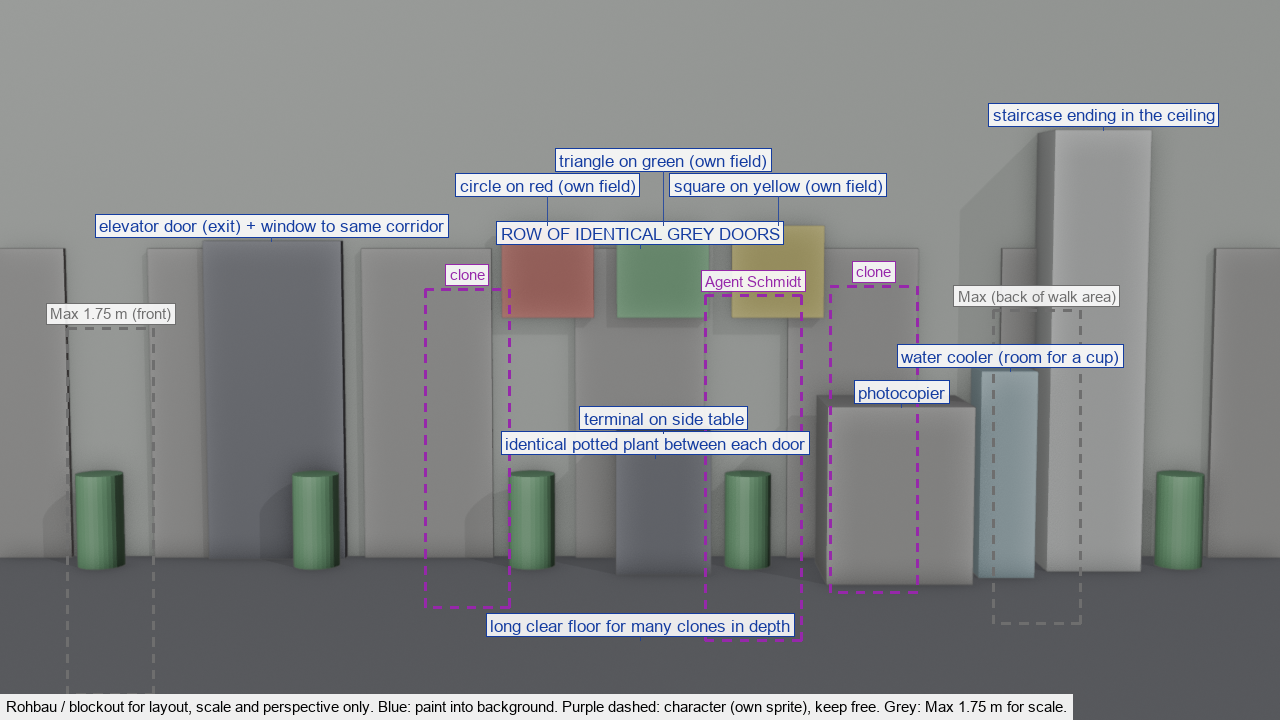
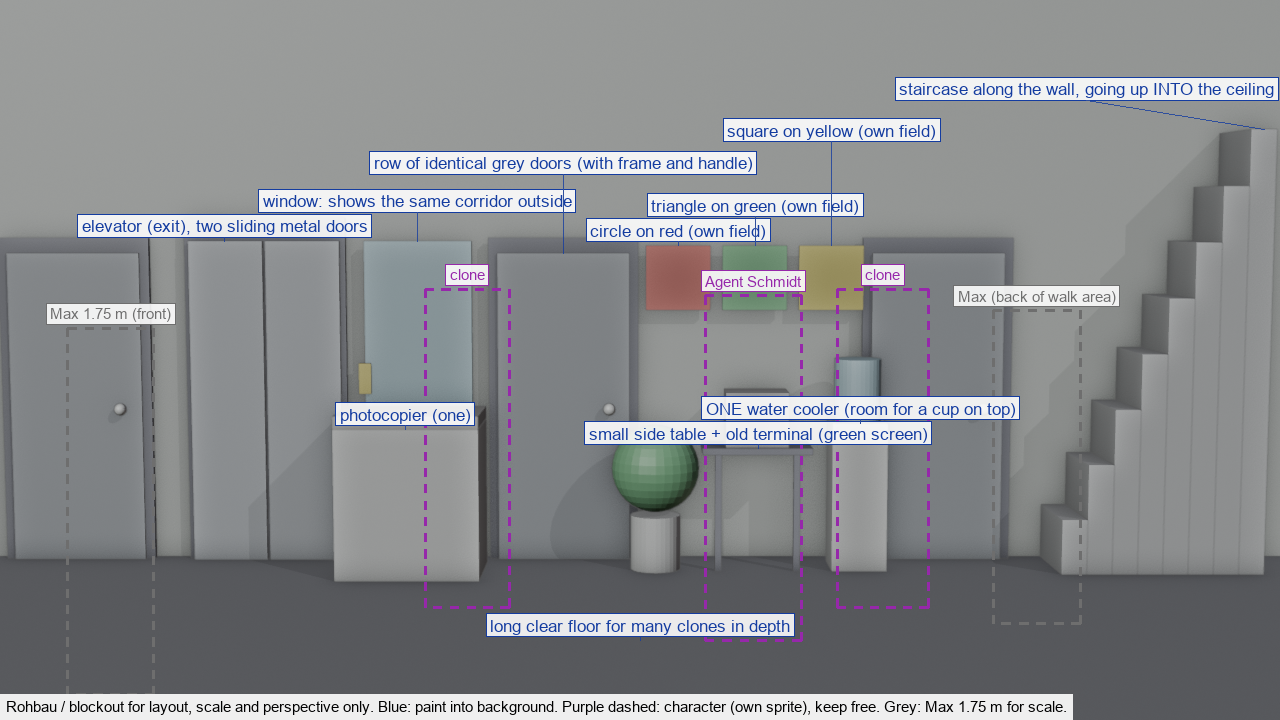
Welt 3: Büro 50 – Rohbau mit klaren Türen, einem Wasserspender, Treppe an der Wand; Prompt angepasst

Changed region(s): [[0.0, 0.0917, 1.0, 0.825]]

diff --git a/tools/grafik_w3/rohbau_raeume.py b/tools/grafik_w3/rohbau_raeume.py
@@ -309,24 +309,48 @@ def kueche():
 
 @raum("buero_50", 640)
 def buero():
-    innenraum(tiefe=3.5, hoehe=2.8, wand=(0.85, 0.88, 0.82, 1))
-    for i in range(7):
-        x = -1.2 + i * 1.4
-        box("ROW OF IDENTICAL GREY DOORS" if i == 3 else None, x, 3.45, 0.85, 0.05, 2.05, col=MITTEL)
-        if i < 6:
-            zyl(None, x + 0.7, 3.2, 0.15, 0.6, col=GRUEN)
-    notiz("identical potted plant between each door", 3.1, 3.2, 0.7)
-    box("elevator door (exit) + window to same corridor", 0.6, 3.4, 0.9, 0.1, 2.1, col=DUNKEL)
-    for i, (c, s) in enumerate([(ROT, "circle"), (GRUEN, "triangle"), (GELB, "square")]):
-        box(f"{s} on {['red', 'green', 'yellow'][i]} (own field)", 2.4 + i * 0.75, 3.38, 0.6, 0.05, 0.6, z=1.6, col=c)
-    box("terminal on side table", 3.15, 2.9, 0.6, 0.4, 0.9, col=DUNKEL)
-    box("photocopier", 4.6, 2.6, 0.9, 0.7, 1.1, col=MITTEL)
-    box("water cooler (room for a cup)", 5.3, 2.8, 0.35, 0.35, 1.3, col=GLAS)
-    box("staircase ending in the ceiling", 5.9, 3.0, 0.6, 1.0, 2.8, col=HELL, rot=0)
+    innenraum(tiefe=3.5, hoehe=2.8, wand=(0.88, 0.90, 0.86, 1))
+    TUER = (0.55, 0.57, 0.60, 1)
+
+    def tuer(x, label=None):
+        box(None, x, 3.42, 0.98, 0.04, 2.12, col=DUNKEL)                        # Zarge
+        box(label, x, 3.40, 0.86, 0.04, 2.02, col=TUER)
+        kugel(None, x + 0.3, 3.36, 0.04, 1.0, col=HELL)
+
+    def pflanze(x, label=None):
+        zyl(label, x, 3.1, 0.16, 0.35, col=HELL)
+        kugel(None, x, 3.1, 0.28, 0.65, col=GRUEN)
+
+    # links: Aufzug und Fenster
+    box(None, 0.55, 3.42, 1.05, 0.04, 2.25, col=DUNKEL)
+    box("elevator (exit), two sliding metal doors", 0.3, 3.38, 0.48, 0.04, 2.1, col=(0.70, 0.72, 0.75, 1))
+    box(None, 0.8, 3.38, 0.48, 0.04, 2.1, col=(0.70, 0.72, 0.75, 1))
+    box(None, 1.2, 3.38, 0.08, 0.04, 0.2, z=1.1, col=GELB)
+    box("window: shows the same corridor outside", 1.55, 3.40, 0.7, 0.04, 1.3, z=0.8, col=GLAS)
+    # Rückwand: Reihe gleicher Türen, je eine Pflanze dazwischen
+    tuer(-0.7)
+    tuer(2.5, "row of identical grey doors (with frame and handle)")
+    pflanze(3.1)
+    tuer(4.95)
+    # Farbcode über dem Terminal, drei getrennte Felder mit Symbol
+    for i, (c, n) in enumerate([(ROT, "circle on red"), (GRUEN, "triangle on green"), (GELB, "square on yellow")]):
+        box(f"{n} (own field)", 3.25 + i * 0.5, 3.40, 0.42, 0.03, 0.42, z=1.65, col=c)
+    for x in (3.5, 4.0):
+        box(None, x, 3.0, 0.04, 0.04, 0.75, col=DUNKEL)
+    box("small side table + old terminal (green screen)", 3.75, 3.0, 0.7, 0.4, 0.04, z=0.75, col=DUNKEL)
+    box(None, 3.75, 3.05, 0.4, 0.3, 0.35, z=0.79, col=MITTEL)
+    # rechts: Kopierer, ein Wasserspender, Treppe in die Decke
+    box("photocopier (one)", 1.55, 2.7, 0.9, 0.6, 0.95, col=HELL)
+    box(None, 1.55, 2.7, 0.9, 0.6, 0.08, z=0.95, col=MITTEL)
+    box("ONE water cooler (room for a cup on top)", 4.4, 3.0, 0.35, 0.35, 0.95, col=HELL)
+    zyl(None, 4.4, 3.17, 0.15, 0.4, z=0.95, col=GLAS)
+    for i in range(8):
+        box("staircase along the wall, going up INTO the ceiling" if i == 7 else None,
+            5.75 + i * 0.16, 2.9, 0.16, 1.0, 0.35 * (i + 1), col=(0.80, 0.80, 0.80, 1))
     notiz("long clear floor for many clones in depth", 3.0, 1.0, 0.05)
     figur("Agent Schmidt", 3.6, 1.2, 1.85)
     figur("clone", 2.0, 2.0, 1.85)
-    figur("clone", 4.4, 2.4, 1.85)
+    figur("clone", 4.4, 2.0, 1.85)
     max_massstab()
 
 

diff --git a/docs/grafik/welt-3.md b/docs/grafik/welt-3.md
@@ -77,7 +77,7 @@ Standardweg: Konzeptbild mit dem Baustein KONZEPT in Gemini, danach `tools/pixel
 | Laboreingang | Realität innen | Tür zu und offen | Panzertür, Kartenleser, Pinnwand, Wischeimer, Warnstreifen, Deckenlampe, Gang zur Straße | Underground concrete passage below the city, front view with gentle depth. Center: a heavy round steel blast door set into the back wall, closed. Right of the door: a wall-mounted card reader with a small red light. Left: a mop bucket full of clean water and a corkboard covered in pinned charts and blank result sheets; exit back up to the street at the left edge. Yellow-black warning stripes along the back of the floor, the front kept clear and wet. A single ceiling lamp, water dripping beside it. Second version, same framing: the blast door rolled aside, revealing a small room with a wall of glowing cyan data ports and one thick cable plugged in |
 | Stadtstraße | Simulation | Tag und Nacht (Strom der Kapsel aus). 1280×360 als ein Panorama in einem Bild (Seitenverhältnis 32:9) | Nachttisch mit Radiowecker (Anzeige 5:59; klingelnd 6:00), Gehweg für die Katze, Glastür des Büroturms, Haus der Orakel-Oma mit Spitzengardinen, gleiche Bäume und Häuser, freie Fahrbahn für die Autos im Takt (Effekt, keine gemalten Autos), Nachttisch als eigenes Vordergrundteil, Omas Haustür in Max-Größe, Sonne, Wolke dreimal | ONE single continuous panoramic image, extra wide 32:9 (1280x360), seen through one fixed camera from the front with gentle depth: a single uninterrupted city street that runs from the left edge to the right edge without any seam, split, border, divider or second panel. The horizon line, the sidewalk, the curb and the road stay at exactly the same height across the whole width. A suspiciously perfect city street on a sunny day. From left to right: at the far left, close to the viewer at the front edge of the sidewalk, a small wooden bedside table standing alone with a 1980s clock radio on it, red digits on its display; behind it a narrow, too-clean alley entrance. Behind the front sidewalk a clean empty asphalt road runs across the whole width, no cars on it and no cars parked anywhere. Across the road a second narrow sidewalk, then identical round trees and identical street lamps in a perfect evenly spaced row, then identical white houses with small front lawns; one house near the middle has lace curtains, a large front door and a small blank sign beside it, its door clearly big enough for an adult. At the far right, on the near side of the road, the ground floor of a tall glass office tower that is cut off by the top edge, with a closed glass entrance door and a small grey intercom plate beside it. One long clean sidewalk across the whole lower part of the image, no cracks, no gum, wide enough to walk on. Perfect blue sky with a small round sun and the same small cloud appearing exactly three times at even distances. Second version: the same street at night, dark blue sky, street lamps on, windows dark |
 | Küche der Orakel-Oma | Simulation innen | Sparschwein auf dem Regal; Sparschwein weg, Scherben am Boden | Ofen, Sparschwein auf dem Regal, Kochbuch, Radio, Gläser, Eieruhr, Kuckucksuhr, Gabel, Teller und Teekanne, Kehrblech mit Besen, Haustür | A homely retro kitchen seen from a few steps back, front view with gentle depth, furniture in normal adult size. Left: an old cream enamel oven with a window, a tray of round golden cookies inside, warm glow; a dustpan and broom leaning beside it, the broom turned toward the room. Center: a wooden kitchen table at the hip height of an adult, a chair beside it, on the table an empty plate, a teapot, a single straight silver fork and a thick open appliance manual showing a drawing of a stand mixer. Right: a high wall shelf with a blue ceramic piggy bank, a small radio and three jars with blank labels; below it a small side shelf with a wind-up kitchen timer shaped like a white hen, next to the front door at the right edge. Back wall: floral wallpaper, a window with lace curtains, a cuckoo clock. Warm light. Second version, same framing: the shelf without the piggy bank, blue shards on the floor below it |
-| Büroturm, 50. Stock | Simulation innen | – | Farbcode an der Wand, Terminal, Fenster, gleiche Türen, Bürokopierer, Wasserspender mit Platz für die Kaffeetasse (Sprite aus dem Gegenstands-Sammelbild, dort legt Schmidt auch die Sonnenbrille ab), Treppe in die Decke, Aufzugstür | An endless office corridor on the 50th floor, front view with gentle depth, the back wall lined with a long row of at least six identical grey doors, one identical potted plant between each two doors, the corridor continuing into the distance. Left: a closed elevator door and a window that shows only more of the same corridor outside. Center: three separate square colour fields side by side on the wall at eye height, each with exactly one large black symbol inside it: a circle on the red field, a triangle on the green field, a square on the yellow field; below them a small old computer terminal with a green screen on a side table. Right: a large grey office photocopier with an open output tray, a water cooler with a big bubble bottle and a staircase that ends in the ceiling. Floor clear and long for a crowd of clones. Cold flat fluorescent light |
+| Büroturm, 50. Stock | Simulation innen | – | Farbcode an der Wand, Terminal, Fenster, gleiche Türen, Bürokopierer, Wasserspender mit Platz für die Kaffeetasse (Sprite aus dem Gegenstands-Sammelbild, dort legt Schmidt auch die Sonnenbrille ab), Treppe in die Decke, Aufzugstür | An endless office corridor on the 50th floor, front view with gentle depth, plain pale walls. Along the back wall from left to right: one closed grey office door with frame and handle; a metal elevator with two sliding doors and a small call button (the exit); a window showing only more of the same corridor outside, with one grey office photocopier standing in front of it; a second identical grey door; one potted plant; in the center three separate square colour fields side by side at eye height, each with exactly one large black symbol inside it: a circle on the red field, a triangle on the green field, a square on the yellow field, below them a small side table with an old computer terminal with a green screen; next to it ONE single water cooler with a big bubble bottle (only one); a third identical grey door; at the right edge a plain staircase running up along the wall and ending in the ceiling. All doors look exactly the same. No other doors, no columns, no second water cooler. Floor clear and long for a crowd of clones. Cold flat fluorescent light |
 | Testkammer 1 | Labor | Ausgangstür zu und offen (das Portalgerät hängt als eigenes Sprite aus dem Labor-Sammelbild in der Halterung) | Bodenschalter, Ausgangstür, Portalgerät-Halterung, Lautsprecher, Pappkuchen | A bright white test chamber built from identical square wall panels, front view with gentle depth. Left: the entrance and an empty white wall mount for a handheld device. Center: a large round red floor button set flush into the floor. Right: a closed sliding exit door. A small round speaker in the ceiling. Right corner: a cardboard cake with a painted candle. Second version, same framing: the exit door slid open |
 | Testkammer 2 | Labor | Laser tödlich (rot) und harmlos (blassrosa); das Gummihuhn steht als eigenes Sprite aus dem Labor-Sammelbild auf dem Sockel | Lasersperre, Gummihuhn-Sockel, Kritzelei mit Regel 3, Ausgangstür | The same white test chamber, same framing and panels. Right: the closed exit door, and directly in front of it two short emitter posts with three horizontal red laser beams between them, blocking the door. Left: a small empty white pedestal. Center, low on one wall panel near the floor: hasty black marker scribbles, unreadable, with one small neat block of print beside them. A large round loudspeaker on the wall. Second version: the laser beam pale pink and wobbly |
 | Testkammer 3 | Labor | Tür zu und offen | Verschlossene Tür mit Spalt für Bernd, Lautsprecher, Platz für das Huhn | The same white test chamber, same framing. Right: a large exit door with a big padlock symbol; directly in front of the door, touching it, a narrow slot in the floor exactly one small cube wide, so a cube standing in it blocks the door. Next to the door: a large round loudspeaker with a perforated grille, the size of a window. Left: entrance and an empty spot on the floor for the rubber chicken. Second version: the exit door wide open |

diff --git a/docs/grafik/fertige-prompts/welt-3.md b/docs/grafik/fertige-prompts/welt-3.md
@@ -344,7 +344,7 @@ NEGATIVE: no new objects, no changed camera or framing, no style change, no text
 
 ```text
 STYLE: Concept art for a 2D point-and-click adventure game in the style of classic 1990s adventure games, front view of the room with gentle one-point perspective, camera at the eye level of a standing person looking straight at the back wall, back wall parallel to the picture plane, vanishing point in the center at about 40 percent of the image height, side walls at most as narrow angled strips at the image edges, open walkable floor with gentle depth across the lower third to half of the image kept free of objects except at the left and right edges, wide shot from further back so the room feels spacious: a standing adult at the front edge would be about 52 percent of the image height, so doors and tall cupboards reach only about 50 percent of the image height, chairs about 25 percent and tables about 22 percent, no top-down, bird's-eye or strong three-quarter view, no fisheye, every object drawn exactly as described and nothing added, no faces or robot features on objects, small loose objects that can be picked up left out, book spines, calendars, posters and labels without any letters or numbers, light from the upper left with soft shadows to the lower right, humorous and whimsical, warm hand-painted look, 16:9, no text, no letters, no logos.
-SCENE: An endless office corridor on the 50th floor, front view with gentle depth, the back wall lined with a long row of at least six identical grey doors, one identical potted plant between each two doors, the corridor continuing into the distance. Left: a closed elevator door and a window that shows only more of the same corridor outside. Center: three separate square colour fields side by side on the wall at eye height, each with exactly one large black symbol inside it: a circle on the red field, a triangle on the green field, a square on the yellow field; below them a small old computer terminal with a green screen on a side table. Right: a large grey office photocopier with an open output tray, a water cooler with a big bubble bottle and a staircase that ends in the ceiling. Floor clear and long for a crowd of clones. Cold flat fluorescent light.
+SCENE: An endless office corridor on the 50th floor, front view with gentle depth, plain pale walls. Along the back wall from left to right: one closed grey office door with frame and handle; a metal elevator with two sliding doors and a small call button (the exit); a window showing only more of the same corridor outside, with one grey office photocopier standing in front of it; a second identical grey door; one potted plant; in the center three separate square colour fields side by side at eye height, each with exactly one large black symbol inside it: a circle on the red field, a triangle on the green field, a square on the yellow field, below them a small side table with an old computer terminal with a green screen; next to it ONE single water cooler with a big bubble bottle (only one); a third identical grey door; at the right edge a plain staircase running up along the wall and ending in the ceiling. All doors look exactly the same. No other doors, no columns, no second water cooler. Floor clear and long for a crowd of clones. Cold flat fluorescent light.
 PALETTE: overly clean interior palette with a faint green tint, even shadowless-looking light, no dirt anywhere, slightly too symmetrical, no sky. Color anchors, approximate: clean grey #c0cbdc, white #ffffff, faint green tint #63c74d, pale wood #e4a672.
 LAYOUT: Use the attached grey blockout only for layout, perspective, horizon height and the size of every object relative to the 1.75 m person; paint in the style of the reference image, do not copy the grey colours, do not paint any people or animals.
 NEGATIVE: no characters, people or animals in the walkable area, no text, letters, numbers or logos, no faces or robot features on objects, no loose objects that can be picked up, no objects that are not described, no top-down, bird's-eye or fisheye view, no tilted floor, no photorealism, no 3D render, no blur, no watermark
